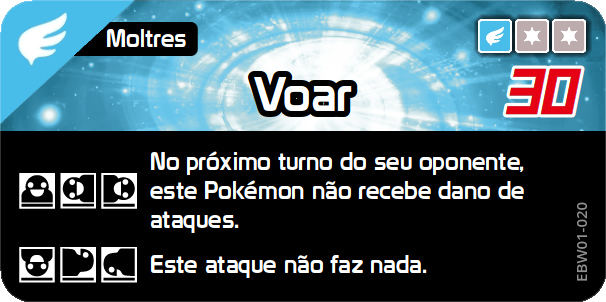
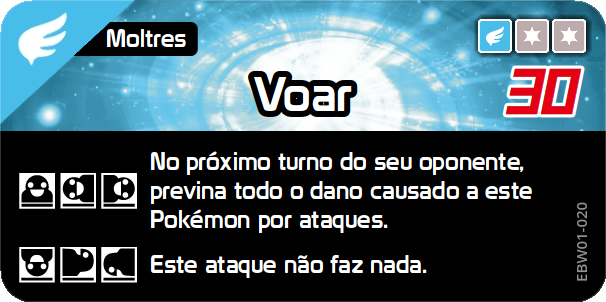
updated pt cards

Changed region(s): [[0.2376, 0.596, 0.8911, 0.7748]]

diff --git a/database_pt/text/wazacards/ST/10-001_altaria.md b/database_pt/text/wazacards/ST/10-001_altaria.md
@@ -4,133 +4,133 @@
 
 #### Bicada
 
-| Nome            | Bicada                                                      |
-| --------------- | ----------------------------------------------------------- |
-| Japonês         | つつく                                                         |
-| Tipo            | Voador                                                      |
-| Código          | STW10-001                                                   |
-| Pokémon         | Altaria                                                     |
-| Energia         | {Y}                                                         |
-| Dano            | 10                                                          |
-| Efeito          |                                                             |
+| Nome            | Bicada                                      |
+| --------------- | ------------------------------------------- |
+| Japonês         | つつく                                      |
+| Tipo            | Voador                                      |
+| Código          | STW10-001                                   |
+| Pokémon         | Altaria                                     |
+| Energia         | {Y}                                         |
+| Dano            | 10                                          |
+| Efeito          |                                             |
 | Em pé           | Este ataque causa 20 pontos de dano a mais. |
-| De ponta-cabeça |                                                             |
+| De ponta-cabeça |                                             |
 | De costas       | Este ataque causa 20 pontos de dano a mais. |
-| De bruços       |                                                             |
-| De lado         |                                                             |
+| De bruços       |                                             |
+| De lado         |                                             |
 
 [Bicada](https://bandai-hobby.net/site/pokemon/plakoro/images/products/st10/01/img_wazacard01.webp)
 
 #### Voo Fofinho ?
 
-| Nome            | Voo Fofinho ?                                                                                                                                                                                                          |
-| --------------- | ---------------------------------------------------------------------------------------------------------------------------------------------------------------------------------------------------------------------- |
-| Japonês         | ふわふわひこう                                                                                                                                                                                                                |
-| Tipo            | Voador                                                                                                                                                                                                                 |
-| Código          | STW10-002                                                                                                                                                                                                              |
-| Pokémon         | Altaria                                                                                                                                                                                                                |
-| Energia         | {Y}{Y}                                                                                                                                                                                                                 |
-| Dano            | 20                                                                                                                                                                                                                     |
-| Efeito          |                                                                                                                                                                                                                        |
+| Nome            | Voo Fofinho ?                                                                                                                                                       |
+| --------------- | ------------------------------------------------------------------------------------------------------------------------------------------------------------------- |
+| Japonês         | ふわふわひこう                                                                                                                                                      |
+| Tipo            | Voador                                                                                                                                                              |
+| Código          | STW10-002                                                                                                                                                           |
+| Pokémon         | Altaria                                                                                                                                                             |
+| Energia         | {Y}{Y}                                                                                                                                                              |
+| Dano            | 20                                                                                                                                                                  |
+| Efeito          |                                                                                                                                                                     |
 | Em pé           | No próximo turno do oponente, se o Charakoro dele cair {s1}{s2}, previna todo o dano causado a este Pokémon por ataques. (Você ainda é afetado por outros efeitos.) |
-| De ponta-cabeça |                                                                                                                                                                                                                        |
-| De costas       |                                                                                                                                                                                                                        |
-| De bruços       |                                                                                                                                                                                                                        |
+| De ponta-cabeça |                                                                                                                                                                     |
+| De costas       |                                                                                                                                                                     |
+| De bruços       |                                                                                                                                                                     |
 | De lado         | No próximo turno do oponente, se o Charakoro dele cair {s1}{s2}, previna todo o dano causado a este Pokémon por ataques. (Você ainda é afetado por outros efeitos.) |
 
 [Voo Fofinho](https://bandai-hobby.net/site/pokemon/plakoro/images/products/st10/01/img_wazacard02.webp)
 
 #### Poleiro
 
-| Nome            | Poleiro                                                      |
-| --------------- | ------------------------------------------------------------ |
-| Japonês         | はねやすめ                                                        |
-| Tipo            | Voador                                                       |
-| Código          | STW10-003                                                    |
-| Pokémon         | Altaria                                                      |
-| Energia         | {Y}{Y}                                                       |
-| Dano            |                                                              |
+| Nome            | Poleiro                                      |
+| --------------- | -------------------------------------------- |
+| Japonês         | はねやすめ                                   |
+| Tipo            | Voador                                       |
+| Código          | STW10-003                                    |
+| Pokémon         | Altaria                                      |
+| Energia         | {Y}{Y}                                       |
+| Dano            |                                              |
 | Efeito          | Cure 20 pontos de dano deste Pokémon.        |
 | Em pé           | Cure 20 pontos de dano a mais deste Pokémon. |
-| De ponta-cabeça |                                                              |
-| De costas       |                                                              |
-| De bruços       |                                                              |
+| De ponta-cabeça |                                              |
+| De costas       |                                              |
+| De bruços       |                                              |
 | De lado         | Cure 20 pontos de dano a mais deste Pokémon. |
 
 [Poleiro](https://bandai-hobby.net/site/pokemon/plakoro/images/products/st10/01/img_wazacard03.webp)
 
 #### Ás dos Ares
 
-| Nome            | Ás dos Ares                                                 |
-| --------------- | ----------------------------------------------------------- |
-| Japonês         | つばめがえし                                                      |
-| Tipo            | Voador                                                      |
-| Código          | STW10-004                                                   |
-| Pokémon         | Altaria                                                     |
-| Energia         | {Y}{Y}{Y}                                                   |
-| Dano            | 30                                                          |
-| Efeito          |                                                             |
+| Nome            | Ás dos Ares                                 |
+| --------------- | ------------------------------------------- |
+| Japonês         | つばめがえし                                |
+| Tipo            | Voador                                      |
+| Código          | STW10-004                                   |
+| Pokémon         | Altaria                                     |
+| Energia         | {Y}{Y}{Y}                                   |
+| Dano            | 30                                          |
+| Efeito          |                                             |
 | Em pé           | Este ataque causa 20 pontos de dano a mais. |
-| De ponta-cabeça |                                                             |
+| De ponta-cabeça |                                             |
 | De costas       | Este ataque causa 20 pontos de dano a mais. |
-| De bruços       |                                                             |
-| De lado         |                                                             |
+| De bruços       |                                             |
+| De lado         |                                             |
 
 [Ás dos Ares](https://bandai-hobby.net/site/pokemon/plakoro/images/products/st10/01/img_wazacard04.webp)
 
 #### Voar
 
-| Nome            | Voar                                                                                                                                                                                    |
-| --------------- | --------------------------------------------------------------------------------------------------------------------------------------------------------------------------------------- |
-| Japonês         | そらをとぶ                                                                                                                                                                                   |
-| Tipo            | Voador                                                                                                                                                                                  |
-| Código          | STW10-005                                                                                                                                                                               |
-| Pokémon         | Altaria                                                                                                                                                                                 |
-| Energia         | {Y}{Y}{Y}                                                                                                                                                                               |
-| Dano            | 40                                                                                                                                                                                      |
-| Efeito          |                                                                                                                                                                                         |
+| Nome            | Voar                                                                                                                                 |
+| --------------- | ------------------------------------------------------------------------------------------------------------------------------------ |
+| Japonês         | そらをとぶ                                                                                                                           |
+| Tipo            | Voador                                                                                                                               |
+| Código          | STW10-005                                                                                                                            |
+| Pokémon         | Altaria                                                                                                                              |
+| Energia         | {Y}{Y}{Y}                                                                                                                            |
+| Dano            | 40                                                                                                                                   |
+| Efeito          |                                                                                                                                      |
 | Em pé           | No próximo turno do seu oponente, previna todo o dano causado a este Pokémon por ataques. (Você ainda é afetado por outros efeitos.) |
-| De ponta-cabeça | Este ataque não faz nada.                                                                                                                                               |
-| De costas       | Este ataque não faz nada.                                                                                                                                               |
-| De bruços       | Este ataque não faz nada.                                                                                                                                               |
+| De ponta-cabeça | Este ataque não faz nada.                                                                                                            |
+| De costas       | Este ataque não faz nada.                                                                                                            |
+| De bruços       | Este ataque não faz nada.                                                                                                            |
 | De lado         | No próximo turno do seu oponente, previna todo o dano causado a este Pokémon por ataques. (Você ainda é afetado por outros efeitos.) |
 
 [Voar](https://bandai-hobby.net/site/pokemon/plakoro/images/products/st10/01/img_wazacard05.webp)
 
 #### Ataque do Céu
 
-| Nome            | Ataque do Céu                                                      |
-| --------------- | ------------------------------------------------------------------ |
-| Japonês         | ゴッドバード                                                             |
-| Tipo            | Voador                                                             |
-| Código          | STW10-006                                                          |
-| Pokémon         | Altaria                                                            |
-| Energia         | {Y}{Y}{Y}{Y}                                                       |
-| Dano            | 30                                                                 |
-| Efeito          |                                                                    |
+| Nome            | Ataque do Céu                                      |
+| --------------- | -------------------------------------------------- |
+| Japonês         | ゴッドバード                                       |
+| Tipo            | Voador                                             |
+| Código          | STW10-006                                          |
+| Pokémon         | Altaria                                            |
+| Energia         | {Y}{Y}{Y}{Y}                                       |
+| Dano            | 30                                                 |
+| Efeito          |                                                    |
 | Em pé           | Este ataque causa 50 pontos de dano a mais.        |
 | De ponta-cabeça | No seu próximo turno, você rola 2 Enekoro a menos. |
 | De costas       | Este ataque causa 50 pontos de dano a mais.        |
 | De bruços       | No seu próximo turno, você rola 2 Enekoro a menos. |
-| De lado         |                                                                    |
+| De lado         |                                                    |
 
 [Ataque do Céu](https://bandai-hobby.net/site/pokemon/plakoro/images/products/st10/01/img_wazacard06.webp)
 
 #### Explosão Lunar
 
-| Nome            | Explosão Lunar                                                                             |
-| --------------- | ------------------------------------------------------------------------------------------ |
-| Japonês         | ムーンフォース                                                                                    |
-| Tipo            | Psíquico                                                                                   |
-| Código          | STW10-007                                                                                  |
-| Pokémon         | Altaria                                                                                    |
-| Energia         | {P}{C}{C}{C}                                                                               |
-| Dano            | 30                                                                                         |
-| Efeito          |                                                                                            |
+| Nome            | Explosão Lunar                                                             |
+| --------------- | -------------------------------------------------------------------------- |
+| Japonês         | ムーンフォース                                                             |
+| Tipo            | Psíquico                                                                   |
+| Código          | STW10-007                                                                  |
+| Pokémon         | Altaria                                                                    |
+| Energia         | {P}{C}{C}{C}                                                               |
+| Dano            | 30                                                                         |
+| Efeito          |                                                                            |
 | Em pé           | Se o oponente for do tipo {N}, este ataque causa 40 pontos de dano a mais. |
-| De ponta-cabeça |                                                                                            |
-| De costas       |                                                                                            |
-| De bruços       |                                                                                            |
+| De ponta-cabeça |                                                                            |
+| De costas       |                                                                            |
+| De bruços       |                                                                            |
 | De lado         | Se o oponente for do tipo {N}, este ataque causa 40 pontos de dano a mais. |
 
 [Explosão Lunar](https://bandai-hobby.net/site/pokemon/plakoro/images/products/st10/01/img_wazacard07.webp)
@@ -139,17 +139,17 @@
 
 #### Canção Sonolenta
 
-| Nome            | Canção Sonolenta                                                                                     |
-| --------------- | ---------------------------------------------------------------------------------------------------- |
-| Japonês         | スリーピーソング                                                                                             |
-| Tipo            | Voador                                                                                               |
-| Código          | PRW03-1-08                                                                                           |
-| Pokémon         | Altaria                                                                                              |
-| Energia         | {Y}{Y}{Y}                                                                                            |
-| Dano            | 20                                                                                                   |
-| Efeito          |                                                                                                      |
+| Nome            | Canção Sonolenta                                                                     |
+| --------------- | ------------------------------------------------------------------------------------ |
+| Japonês         | スリーピーソング                                                                     |
+| Tipo            | Voador                                                                               |
+| Código          | PRW03-1-08                                                                           |
+| Pokémon         | Altaria                                                                              |
+| Energia         | {Y}{Y}{Y}                                                                            |
+| Dano            | 20                                                                                   |
+| Efeito          |                                                                                      |
 | Em pé           | On the opponent's next turn, if the Charakoro rolls {do}{s1}{s2}, that attack fails. |
-| De ponta-cabeça |                                                                                                      |
+| De ponta-cabeça |                                                                                      |
 | De costas       | On the opponent's next turn, if the Charakoro rolls {do}{s1}{s2}, that attack fails. |
-| De bruços       |                                                                                                      |
-| De lado         |                                                                                                      |
+| De bruços       |                                                                                      |
+| De lado         |                                                                                      |

diff --git a/database_pt/text/faq.md b/database_pt/text/faq.md
@@ -460,9 +460,9 @@
 
 #### 9
 
-|   P   | Posso rolar os Enekoro e o Charakoro separadamente?                                                                                                      |
-| :---: | :------------------------------------------------------------------------------------------------------------------------------------------------------- |
-|   R   | Em geral, eles são rolados ao mesmo tempo. <br>However, if you can't hold both the Enekoro and Charakoro at the same time, you may roll them separately. |
+|   P   | Posso rolar os Enekoro e o Charakoro separadamente?                                                                                                       |
+| :---: | :-------------------------------------------------------------------------------------------------------------------------------------------------------- |
+|   R   | Em geral, eles são rolados ao mesmo tempo. <br>Porém, se você não conseguir segurar os Enekoro e o Charakoro ao mesmo tempo, pode rolá-los separadamente. |
 
 #### 10
 
@@ -622,15 +622,15 @@
 
 #### 36
 
-|   P   | Posso trocar meu Charakoro durante uma batalha?                                                                      |
-| :---: | :------------------------------------------------------------------------------------------------------------------- |
-|   R   | Não, não pode. <br>Even if it is the same Pokémon, you can't switch to a Charakoro with a different pose mid-battle. |
+|   P   | Posso trocar meu Charakoro durante uma batalha?                                                                                     |
+| :---: | :---------------------------------------------------------------------------------------------------------------------------------- |
+|   R   | Não, não pode. <br>Mesmo que seja o mesmo Pokémon, você não pode trocar no meio da batalha por um Charakoro com uma pose diferente. |
 
 #### 37
 
 |   P   | Quero adicionar um Enekoro no meio da batalha para usar mais Enekoro por causa do efeito de um golpe. <br>Nesse caso, preciso mostrar ao oponente, durante a preparação da batalha, o Enekoro que quero adicionar? |
 | :---: | :----------------------------------------------------------------------------------------------------------------------------------------------------------------------------------------------------------------- |
-|   R   | No, you don't need to show them during battle preparation. <br>Quando quiser aumentar seus Enekoro, mostre ao seu oponente o Enekoro adicional que você quer adicionar.                                            |
+|   R   | Não, não precisa mostrá-lo durante a preparação da batalha. <br>Quando quiser aumentar seus Enekoro, mostre ao seu oponente o Enekoro adicional que você quer adicionar.                                           |
 
 #### 38
 
@@ -642,7 +642,7 @@
 
 |   P   | I added more Enekoro during the battle to roll more of them, due to a move's effect. <br>Se o efeito que me permite usar mais Enekoro voltar a valer em outro turno, preciso usar os mesmos Enekoro? |
 | :---: | :--------------------------------------------------------------------------------------------------------------------------------------------------------------------------------------------------- |
-|   R   | No, you don't have to use the same ones. <br>Mostre ao seu oponente os Enekoro toda vez que adicioná-los.                                                                                            |
+|   R   | Não, não precisa usar os mesmos. <br>Mostre ao seu oponente os Enekoro toda vez que adicioná-los.                                                                                                    |
 
 #### 40
 
@@ -660,7 +660,7 @@
 
 |   P   | Due to a Charakoro effect, I would like to swap out my custom chips during a battle. <br>In this case, do I need to show the opponent the custom chips I wish to swap during battle preparation? |
 | :---: | :----------------------------------------------------------------------------------------------------------------------------------------------------------------------------------------------- |
-|   R   | No, you don't need to show them during battle preparation. <br>When you wish to swap your custom chips, please show your opponent the custom chips you wish to swap.                             |
+|   R   | Não, não precisa mostrá-lo durante a preparação da batalha. <br>When you wish to swap your custom chips, please show your opponent the custom chips you wish to swap.                            |
 
 #### 43
 
